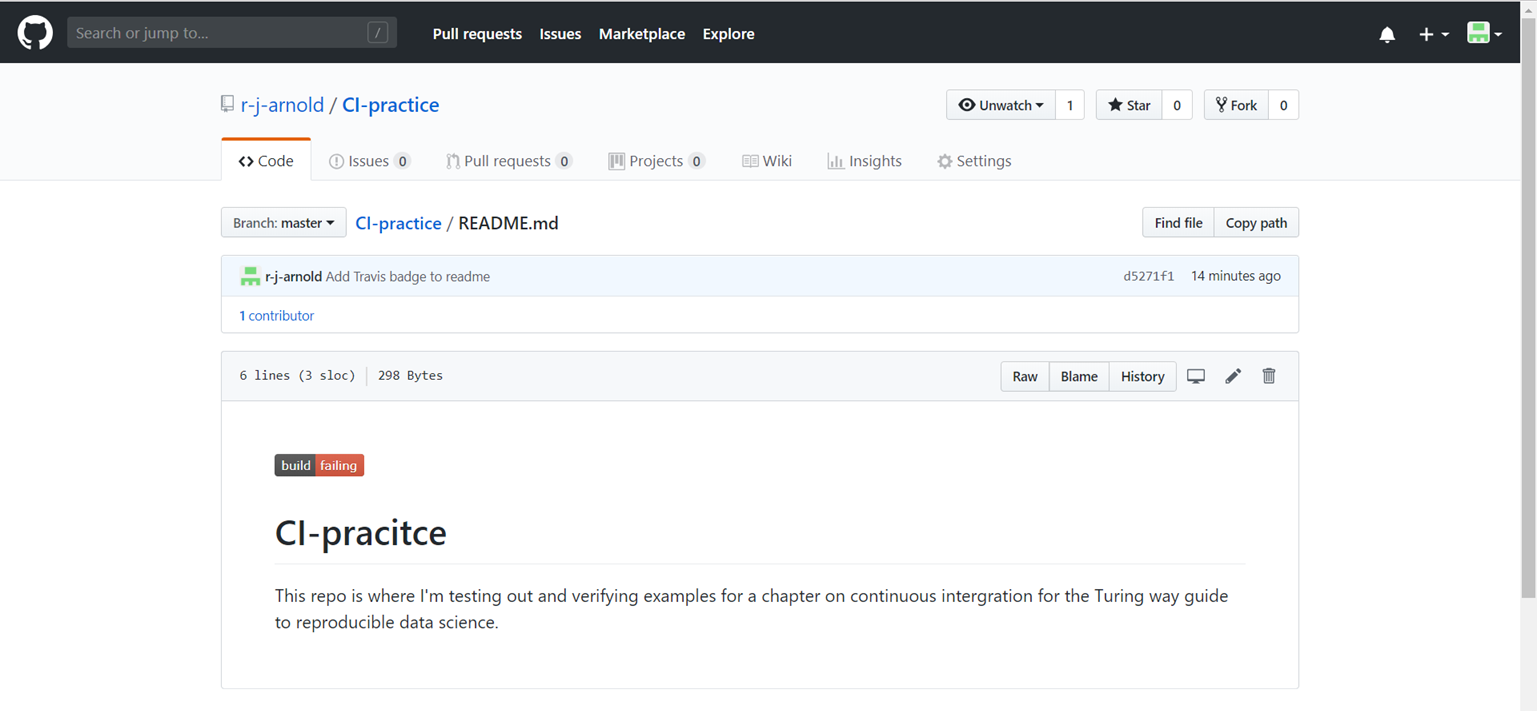
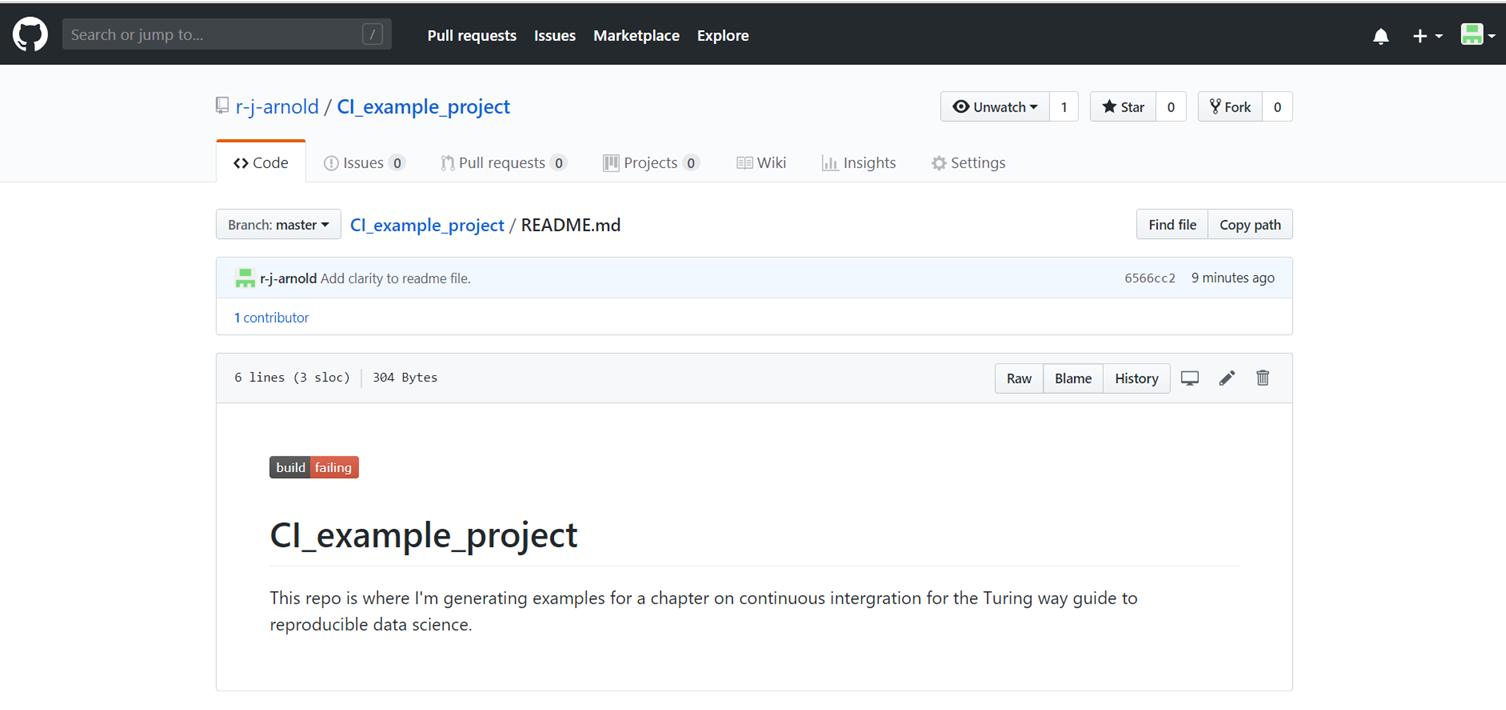
Redo CI Travis figures with correctly-spelled repo name

diff --git a/chapters/continuous_integration.md b/chapters/continuous_integration.md
@@ -90,11 +90,11 @@ In this chapter this entire process is referred to as continuous integration for
 
 There are a number of CI tools available, such Circle (tutorials [here](https://circleci.com/docs/2.0/project-walkthrough/) and [here](https://circleci.com/docs/2.0/hello-world/)). A list of other CI tools can be found [here](https://www.software.ac.uk/resources/guides/hosted-continuous-integration). In this chapter we will focus on [Travis](https://travis-ci.org/) because it's free (if your code is openly available), widely used, and well integrated with the version control platform [GitHub](https://github.com/).
 
-To use Travis you will need to add a file to your project called `.travis.yml` which describes the computational environment to run the project in, and includes a script to run your tests. See the chapter on reproducible computational environments for more information on them, including writing `.yml` files to specify them. See the chapter on testing for information on writing and automating tests. The .travis.yml has a number of other capabilities, which will be described [later](#Setting_up_continuous_integration_with_Travis) along with more detailed instructions for writing these files.
+To use Travis you will need to add a file to your project called `.travis.yml` which describes the computational environment to run the project in, and includes a script to run your tests. See the chapter on reproducible computational environments for more information on them, including writing `.yml` files to specify them. See the chapter on testing for information on writing and automating tests. The .travis.yml file has a number of other capabilities, which will be described [later](#After_success) along with more [detailed instructions](#Setting_up_the_computational_environment) for writing these files.
 
 Once Travis has been set up on a project then each time a commit is made it:
 
-- Clones a copy of your project
+- Clones a copy of the project
 - Generates a copy of the computational environment specified in the .travis.yml file in a brand new virtual environment
 - Builds the project within that environment
 - Runs the tests by following the script specified in the .travis.yml file
